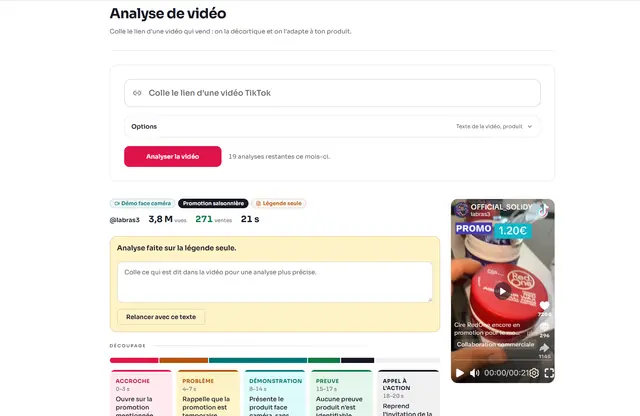
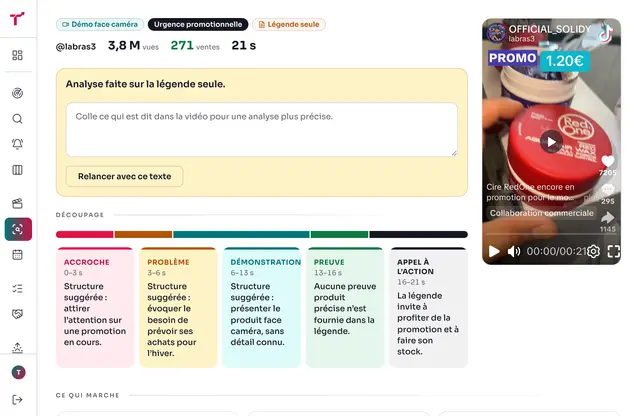
Accueil : capture de l'analyse sur une vraie vidéo TikTok Shop, en pleine largeur
Claude-Session: https://claude.ai/code/session_01Cx6KaBMS47QgTieMCk6vZn

diff --git a/tests/integration/stripe.test.ts b/tests/integration/stripe.test.ts
@@ -1,7 +1,7 @@
 import Stripe from 'stripe';
 import { afterAll, beforeAll, describe, expect, it } from 'vitest';
 import { handleBillingEvent } from '@/lib/billing/events';
-import { enrichStripeEvent, normalizeStripeEvent, StripeBilling, stripePriceId } from '@/lib/billing/stripe';
+import { enrichStripeEvent, normalizeStripeEvent, setStripeForTests, StripeBilling, stripePriceId } from '@/lib/billing/stripe';
 import { STRIPE_WEBHOOK_EVENTS } from '@/lib/billing/stripe-config';
 import { setRepoForTests } from '@/lib/db';
 import { LocalRepo } from '@/lib/db/local';
@@ -21,7 +21,11 @@ const consentAt = new Date().toISOString();
 
 describe.skipIf(!ready)('Stripe (mode test réel)', () => {
   // Le corps d'un describe ignoré est quand même lu par Vitest : pas de client sans clé.
-  const stripe = ready ? new Stripe(key) : (null as unknown as Stripe);
+  // Derrière un proxy HTTPS (environnements de développement isolés), le client `fetch` suit le proxy ; ailleurs, client
+  // HTTP habituel. Le même client sert au test et au code testé.
+  const stripe = ready
+    ? new Stripe(key, process.env.HTTPS_PROXY ? { httpClient: Stripe.createFetchHttpClient() } : {})
+    : (null as unknown as Stripe);
   const repo = new LocalRepo(null);
   const customers: string[] = [];
   const started = Math.floor(Date.now() / 1000) - 5;
@@ -56,6 +60,7 @@ describe.skipIf(!ready)('Stripe (mode test réel)', () => {
 
   beforeAll(async () => {
     setRepoForTests(repo);
+    setStripeForTests(stripe);
     await repo.ensureProfile({ id: 'coach', email: 'coach@example.com' });
     await repo.createCoach({ user_id: 'coach', training_name: 'Formation test', promo_code: 'ITEST30', commission_rate: 0.3 });
     for (const id of ['eleve', 'echec', 'remise']) {
@@ -66,6 +71,7 @@ describe.skipIf(!ready)('Stripe (mode test réel)', () => {
 
   afterAll(async () => {
     setRepoForTests(null);
+    setStripeForTests(null);
     for (const id of customers) await stripe.customers.del(id).catch(() => undefined);
   });
 

diff --git a/DECISIONS.md b/DECISIONS.md
@@ -1299,3 +1299,12 @@ R31. **Comparaison aux références** : deux images côte à côte (capture EtSm
      critères et verdict sur toute la largeur. Script : les scripts remplissent leur colonne. Restent centrés par nature :
      le contenu de l'e-mail dans son aperçu (comme dans une messagerie), les fenêtres modales et le téléprompteur. Le
      site public (accueil, prix, CGV) garde la largeur de page d'EtSmart.
+212. **Capture de l'analyse sur une vraie vidéo TikTok Shop** (14 novembre). La capture envoyée (cire RedOne de
+     @labras3, 3,8 M de vues, 271 ventes) montrait l'ancienne mise en page centrée : la même vidéo a été réanalysée sur
+     le site en ligne, en pleine largeur, avec un compte de test supprimé ensuite, puis capturée et posée dans
+     `docs/landing/analyse.png` (convertie par `npm run screenshots:landing -- --sources`). Un premier essai de l'IA avait
+     lu « cire » comme de la cire d'épilation (légende seule) : il a été relancé, le découpage gardé ne suppose rien de
+     plus que la légende. Pour que le lecteur officiel TikTok et sa couverture s'affichent dans les captures, six
+     serveurs de TikTok et de l'hébergeur des photos produits ont été ouverts dans l'environnement de travail
+     (aucun effet sur le site). Tests d'intégration Stripe : derrière un proxy HTTPS, ils utilisent le client `fetch` de
+     Stripe (le même client sert au test et au code testé).
